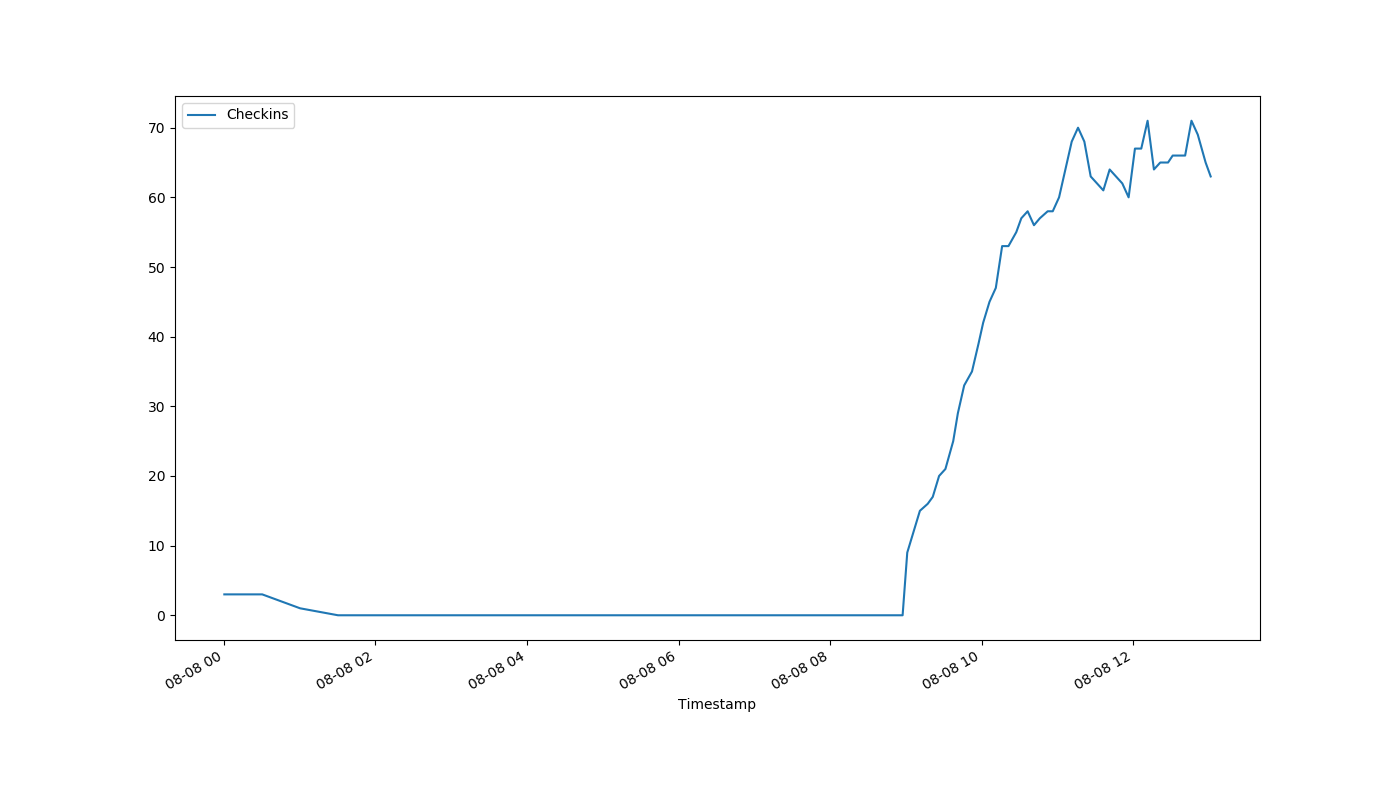
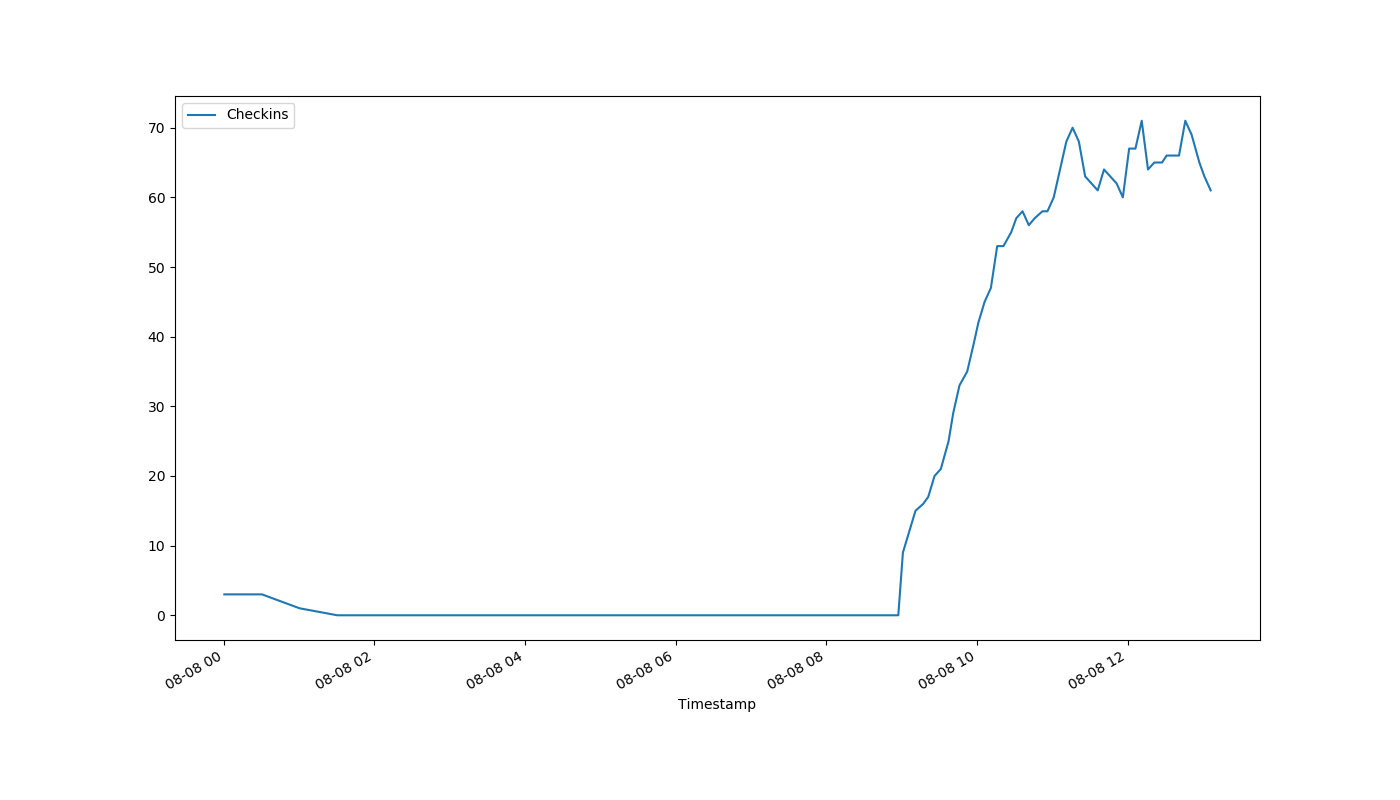
auto-Aug-08-13:08:34

diff --git a/index.html b/index.html
@@ -1,1 +1,1 @@
-<!DOCTYPE html><html><head><meta http-equiv="refresh" content="30"><link rel='stylesheet' href='holmcurrent.css'></head><body><p id='count'>63</p><div id='graph-wrap'><img id='graph' src='holmgraph-Aug-08.png'></div><p id='updated'>Last updated 13:02:13 / 13:01:13</p></body></html>
+<!DOCTYPE html><html><head><meta http-equiv="refresh" content="30"><link rel='stylesheet' href='holmcurrent.css'></head><body><p id='count'>61</p><div id='graph-wrap'><img id='graph' src='holmgraph-Aug-08.png'></div><p id='updated'>Last updated 13:07:13 / 13:06:13</p></body></html>
